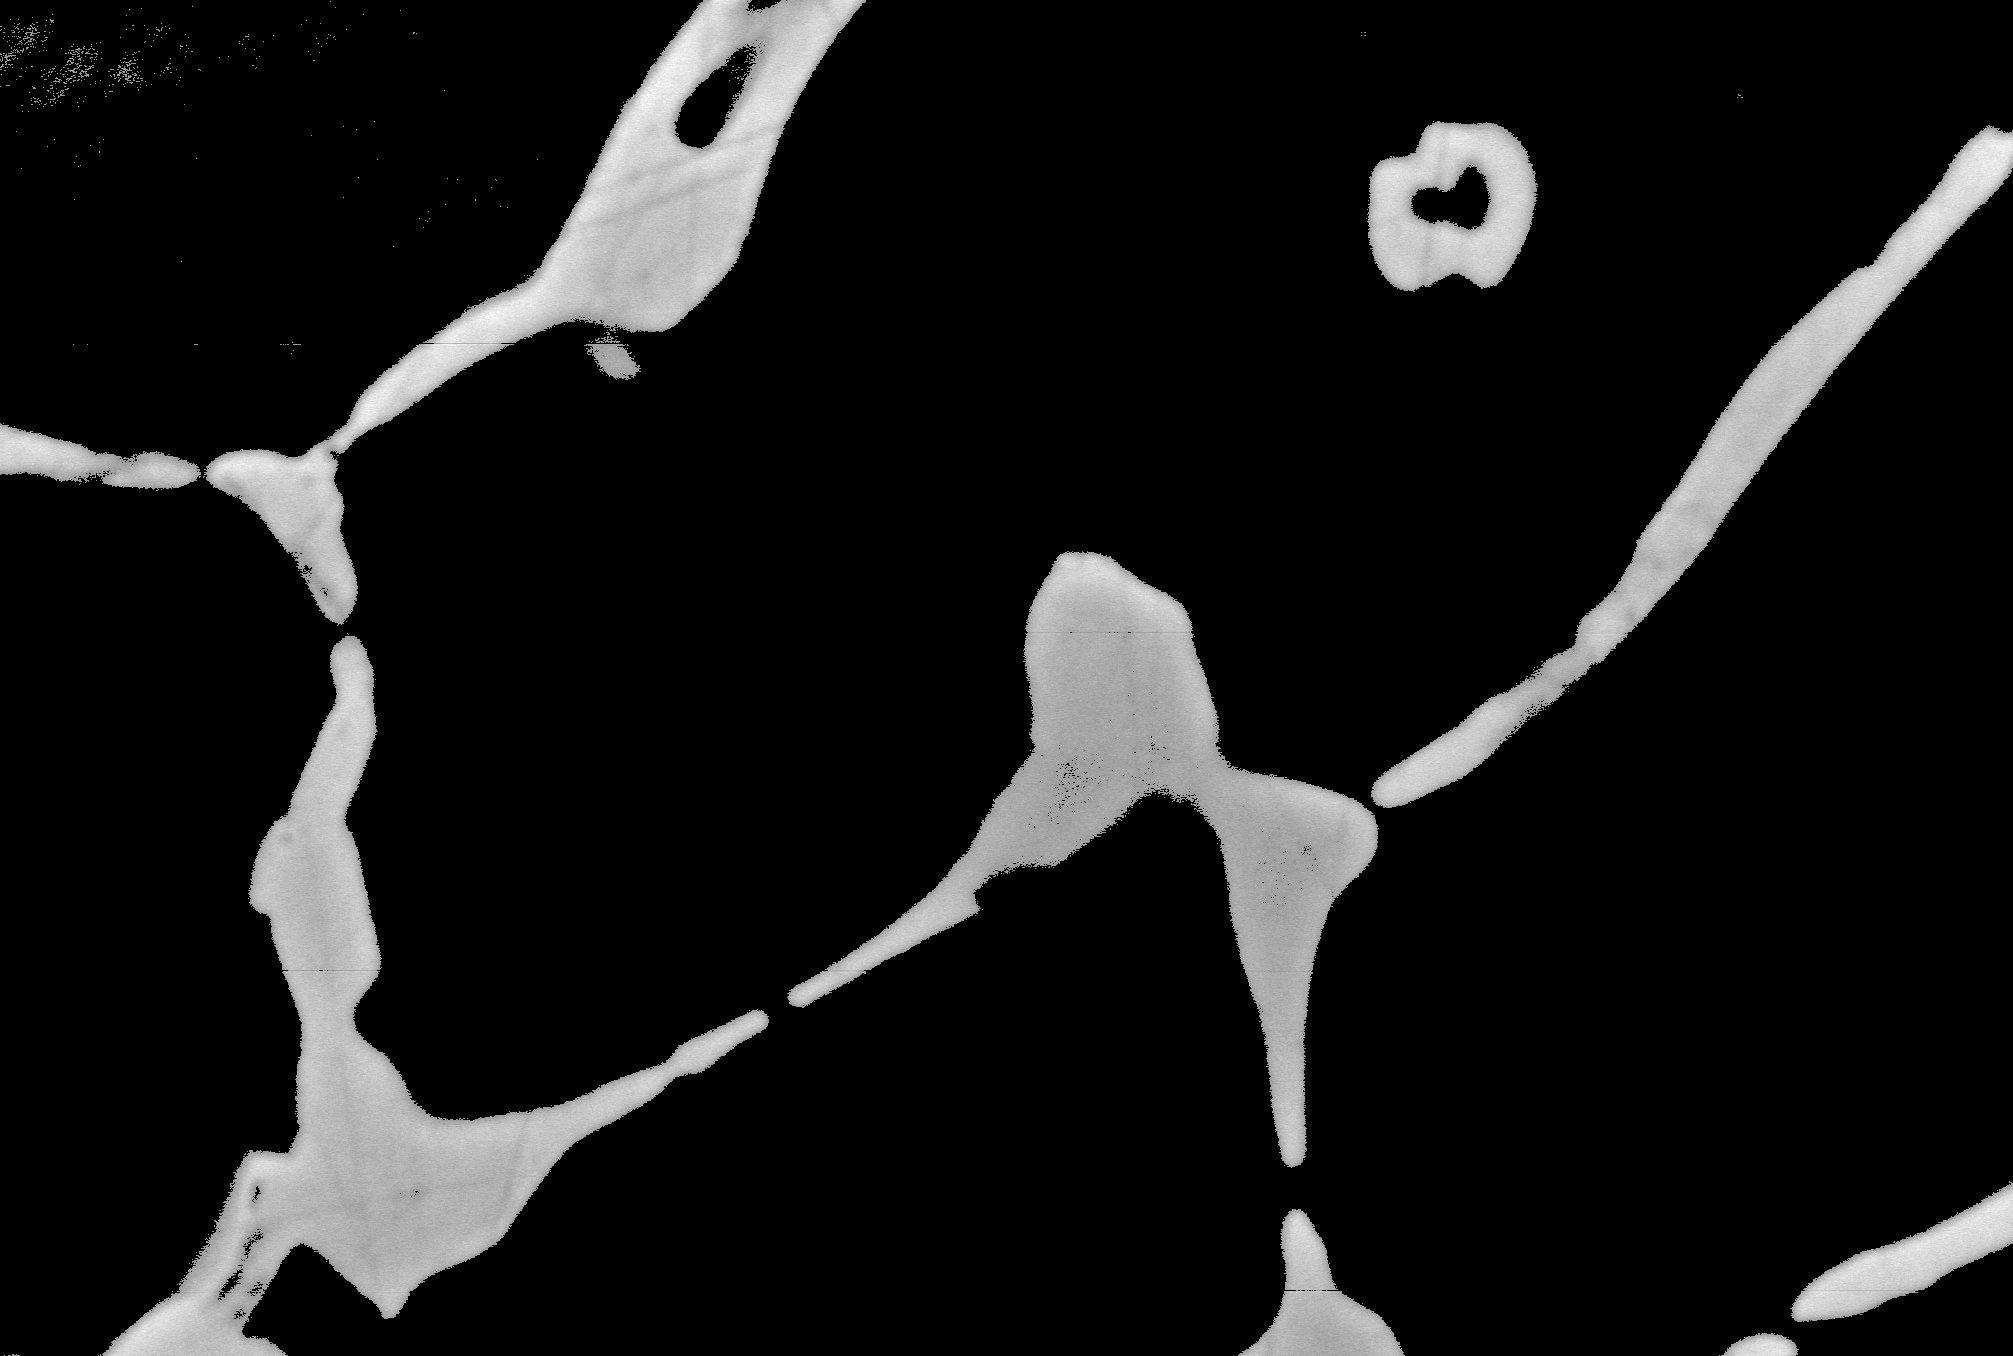
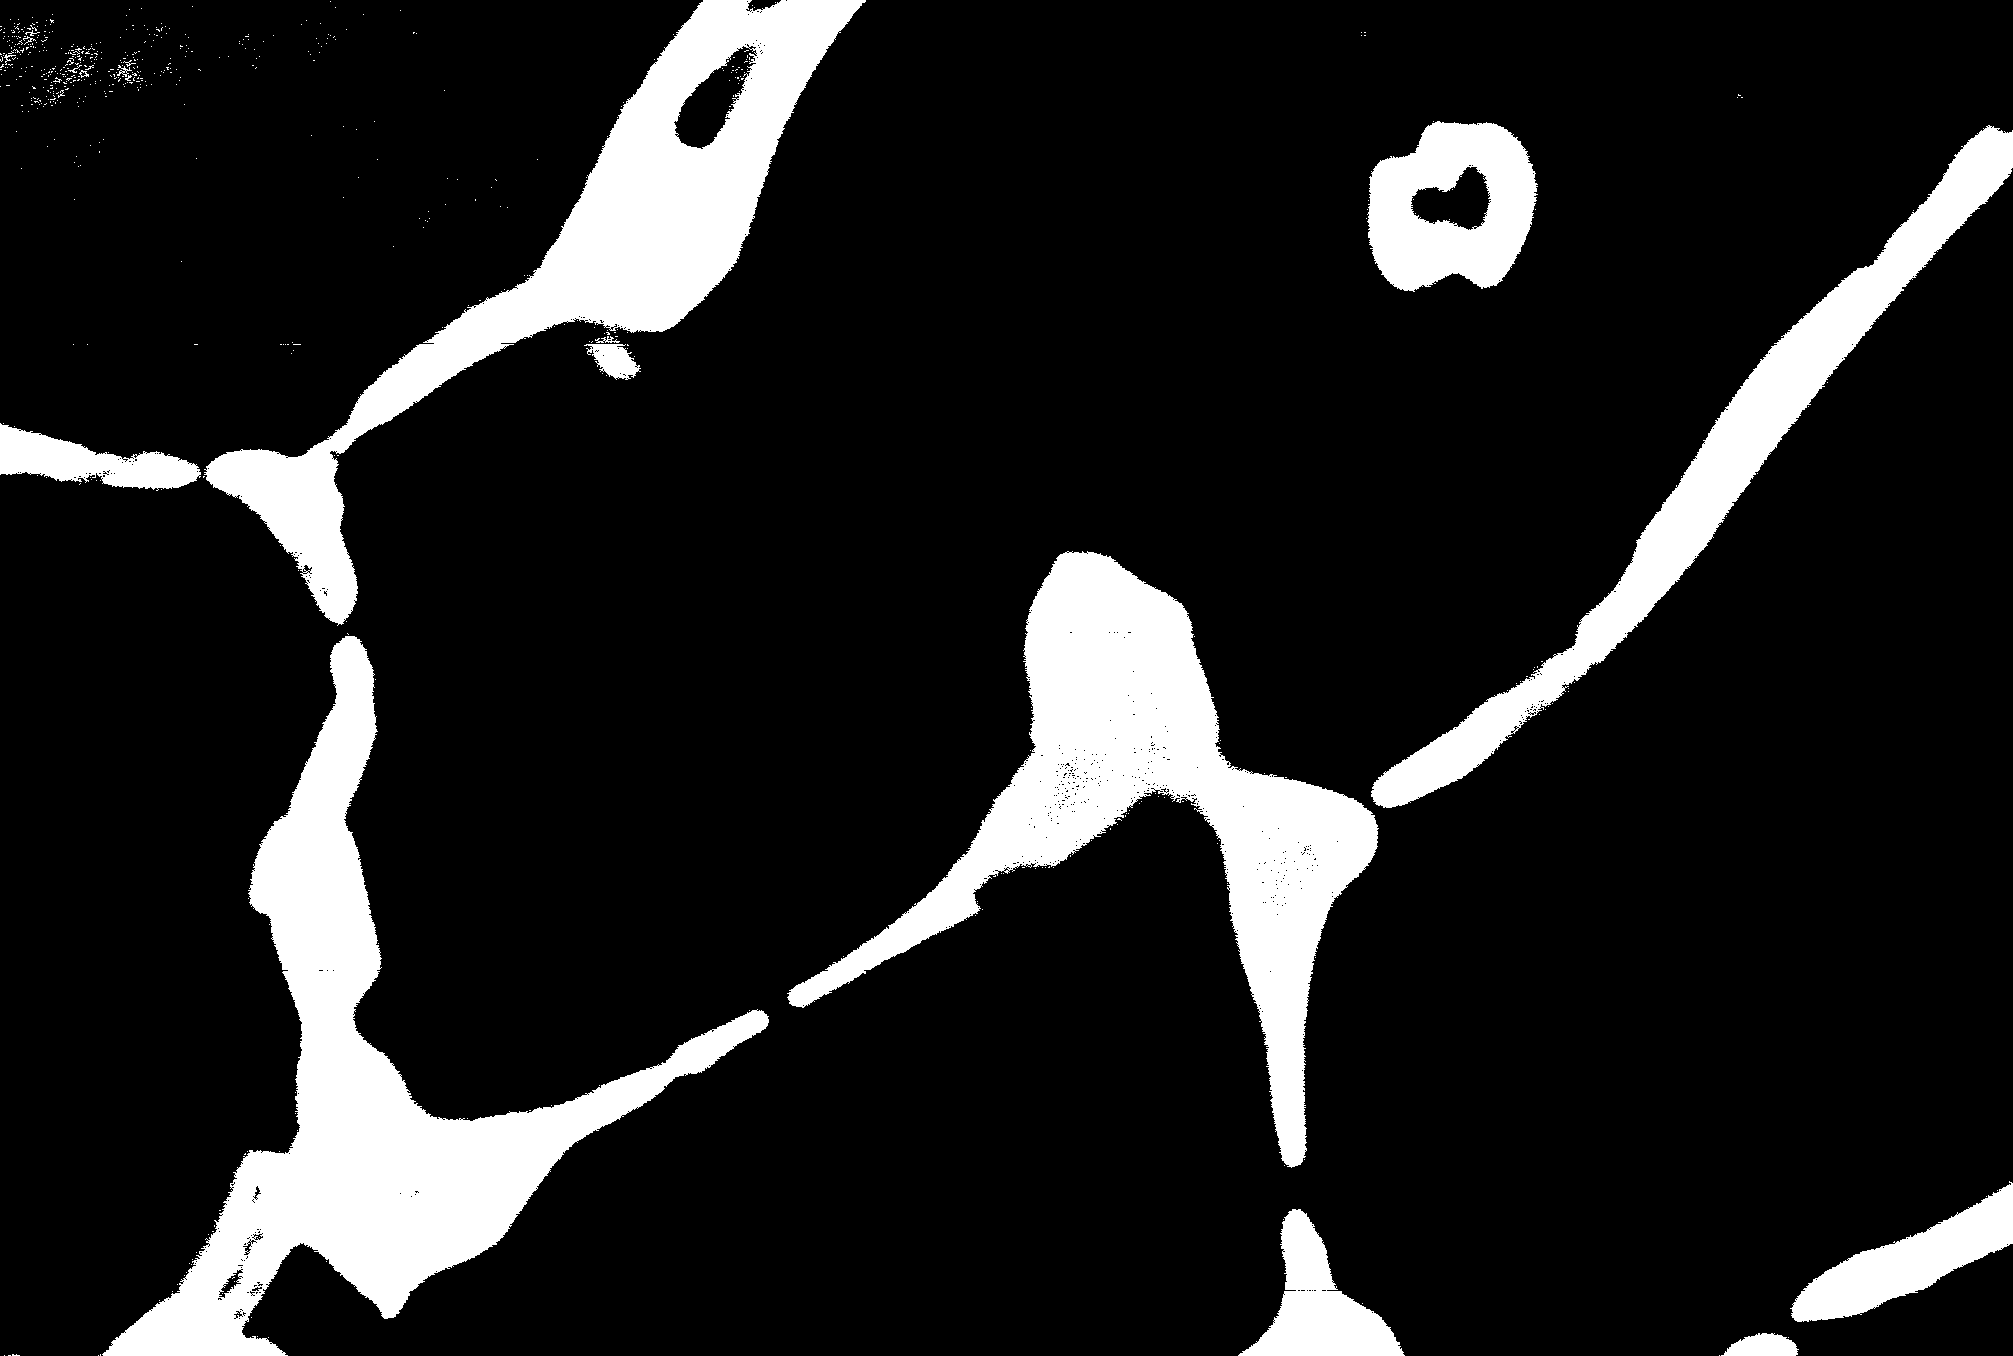
adaptive segmentation

diff --git a/Segmentation/renyi_entropy.py b/Segmentation/renyi_entropy.py
@@ -1,0 +1,112 @@
+import cv2
+import matplotlib.pyplot as plt
+import numpy as np
+from numpy.core.fromnumeric import cumsum
+import skimage.exposure as imexp
+from numpy.lib.type_check import imag
+from PIL import Image
+
+
+def renyi_seg_fn(im, alpha):
+    hist, hist_centers = imexp.histogram(im)
+    #plot 
+    fig, axes = plt.subplots(1, 2, figsize=(8, 3))
+    axes[0].imshow(im, cmap=plt.cm.gray)
+    axes[0].axis('off')
+    axes[1].plot(hist_centers, hist, lw=2)
+    axes[1].set_title('histogram of gray values')
+    plt.show()
+
+    # Convert all values to float
+    hist_float = np.array([float(i) for i in hist])
+    # Compute the pdf
+    pdf = hist_float/np.sum(hist_float)
+    # Compute the cdf
+    cumsum_pdf = np.cumsum(pdf)
+    s, e = im.min(), im.max()
+    scalar = 1.0/(1-alpha)
+    #  A very small value to prevent error due to
+    eps = np.spacing(1)
+    rr = e-s
+    h1 = np.zeros((rr, 1))
+    h2 = np.zeros((rr, 1))
+
+    #  The following loop computes the  h1 nad h2
+    #  values used to compute he entropy
+
+    for ii in range(1, rr):
+        iidash = ii+s
+        temp0 = pdf[0:iidash]/cumsum_pdf[iidash]
+        temp1 = np.power(temp0, alpha)
+        h1[ii] = np.log(np.sum(temp1)+eps)
+
+        temp0 = pdf[iidash+1:e]/(1.0-cumsum_pdf[iidash])
+        temp2 = np.power(temp0, alpha)
+        h2[ii] = np.log(np.sum(temp2) + eps)
+
+    T = h1+h2
+    # Entropy value is calculated
+    T = T*scalar
+    T = T.reshape((rr, 1))[:-2]
+    # location where the maximum entropy
+    # occurs is the threshold for the renyi entropy
+    thresh = T.argmax(axis=0)
+
+    return thresh
+
+
+def renyi_seg_fn2(im, alpha):
+    hist, _ = imexp.histogram(im)
+    # Convert all values to float
+    hist_float = np.array([float(i) for i in hist])
+    # compute the pdf
+    pdf = hist_float/np.sum(hist_float)
+    # compute the cdf
+    cumsum_pdf = np.cumsum(pdf)
+    s, e = im.min(), im.max()
+    scalar = 1.0/(1.0-alpha)
+    # A very small value to prevent error due to log(0).
+    eps = np.spacing(1)
+    rr = e-s
+    # The inner parentheses is needed because
+    # the parameters are tuple.
+    h1 = np.zeros((rr, 1))
+    h2 = np.zeros((rr, 1))
+    # The following loop computes h1 and h2
+    # values used to compute the entropy.
+    for ii in range(1, rr):
+        iidash = ii+s
+        temp0 = pdf[0:iidash]/(cumsum_pdf[iidash])
+        temp1 = np.power(temp0, alpha)
+        h1[ii] = np.log(np.sum(temp1)+eps)
+        temp0 = pdf[iidash+1:e]/(1.0-cumsum_pdf[iidash])
+        temp2 = np.power(temp0, alpha)
+        h2[ii] = np.log(np.sum(temp2)+eps)
+    T = h1+h2
+    # Entropy value is calculated
+    T = T*scalar
+    T = T.reshape((rr, 1))[:-2]
+    # location where the maximum entropy
+    # occurs is the threshold for the renyi entropy
+    thresh = T.argmax(axis=0)
+    return thresh
+
+
+# Read original image
+original_image = Image.open("Segmentation/Data/CT.png")
+
+# Convert to gray scale
+gray_image = original_image.convert('L')
+
+# Convert it to nmmpy array foramt
+gray_image = np.asarray(gray_image)
+
+# Computing the threshold by calling the function.
+thresh = renyi_seg_fn(gray_image, 0.99)
+print('The renyi threshold is: ', thresh[0])
+
+# Threshold the image
+segmented_image = 255*(gray_image > thresh)
+
+# Saving the image
+cv2.imwrite("Segmentation/Data/renyi_output.png", segmented_image)

diff --git a/Segmentation/adaptive.py b/Segmentation/adaptive.py
@@ -1,0 +1,21 @@
+import cv2
+from PIL import Image
+import numpy as np
+
+#  opening the image
+# original_image = Image.open("Segmentation/Data/adaptive_example1.png")
+original_image = Image.open("Segmentation/Data/spinwheel.png")
+
+# Convert to gray scale
+gray_image = original_image.convert('L')
+
+# Convert to numpy array
+gray_image = np.asarray(gray_image)
+
+# Performing adaptive thresholding.
+segmented_image = cv2.adaptiveThreshold(gray_image, gray_image.max(),
+                                         cv2.ADAPTIVE_THRESH_MEAN_C, cv2.THRESH_BINARY, 21, 10)
+
+# Saving the image
+# cv2.imwrite("Segmentation/Data/adaptive_output.png",segmented_image)
+cv2.imwrite("Segmentation/Data/adaptive_output_spinwheel.png", segmented_image)

diff --git a/Segmentation/otsu.py b/Segmentation/otsu.py
@@ -25,8 +25,8 @@ gray_image = np.asarray(gray_image)
 #  apply otsu theshilding
 threshold = threshold_otsu(gray_image)
 
-# threshold the image
-segmented_image = gray_image*(gray_image > threshold)
+# Pixels with intensity greater than the "threshold" are kept.
+segmented_image = 255*(gray_image > threshold)
 
 # saving the image
 cv2.imwrite("Segmentation/Data/otsu_output.png", segmented_image)
